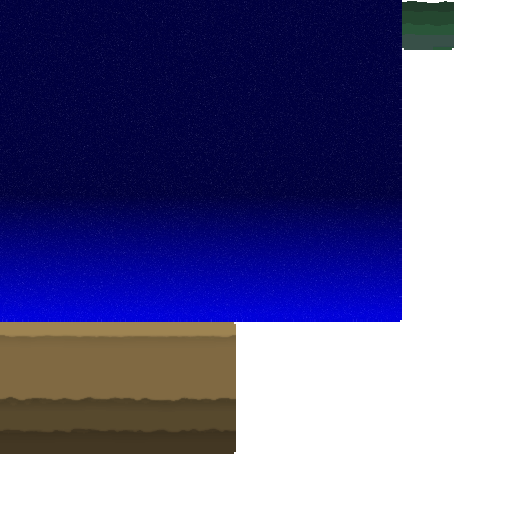
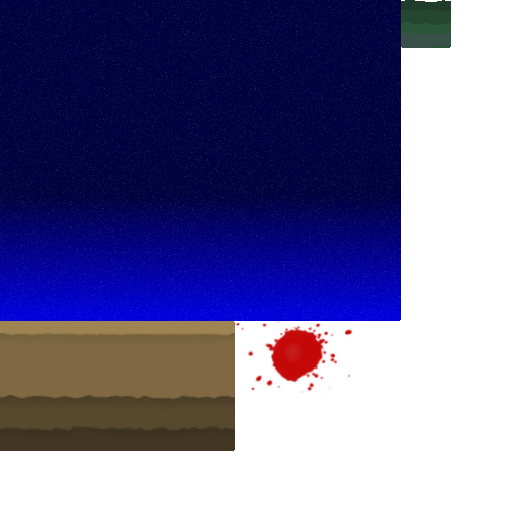
added blood to the points label inside the game

diff --git a/vampirerunner-core/src/main/java/com/gemserk/games/vampirerunner/scripts/render/LabelRenderScript.java b/vampirerunner-core/src/main/java/com/gemserk/games/vampirerunner/scripts/render/LabelRenderScript.java
@@ -5,12 +5,15 @@ import com.artemis.World;
 import com.artemis.utils.ImmutableBag;
 import com.badlogic.gdx.Gdx;
 import com.badlogic.gdx.graphics.g2d.BitmapFont;
+import com.badlogic.gdx.graphics.g2d.Sprite;
 import com.badlogic.gdx.graphics.g2d.SpriteBatch;
 import com.badlogic.gdx.math.Vector2;
 import com.gemserk.commons.artemis.components.SpatialComponent;
+import com.gemserk.commons.artemis.components.SpriteComponent;
 import com.gemserk.commons.artemis.scripts.ScriptJavaImpl;
 import com.gemserk.commons.gdx.camera.Libgdx2dCamera;
 import com.gemserk.commons.gdx.games.Spatial;
+import com.gemserk.commons.gdx.graphics.SpriteBatchUtils;
 import com.gemserk.games.vampirerunner.Groups;
 import com.gemserk.games.vampirerunner.components.ScoreLabelComponent;
 
@@ -38,33 +41,36 @@ public class LabelRenderScript extends ScriptJavaImpl {
 
 		font.setScale(2f);
 		font.setColor(1f, 1f, 1f, 1f);
-		
-		spriteBatch.begin();
 
+		spriteBatch.begin();
 		for (int i = 0; i < positionLabels.size(); i++) {
 
 			// if position label inside screen...
-
 			Entity positionLabel = positionLabels.get(i);
 			SpatialComponent spatialComponent = positionLabel.getComponent(SpatialComponent.class);
-			ScoreLabelComponent scoreLabelComponent = positionLabel.getComponent(ScoreLabelComponent.class);
 
 			Spatial spatial = spatialComponent.getSpatial();
 
 			labelPosition.set(spatial.getX(), spatial.getY());
 
 			camera.project(labelPosition);
-			
+
 			// do not render labels outside the screen.
 			if (labelPosition.x > Gdx.graphics.getWidth() + 100f || labelPosition.x < -100f)
 				continue;
 
-			font.draw(spriteBatch, scoreLabelComponent.getLabel(), labelPosition.x, labelPosition.y);
+			ScoreLabelComponent scoreLabelComponent = positionLabel.getComponent(ScoreLabelComponent.class);
+			SpriteComponent spriteComponent = positionLabel.getComponent(SpriteComponent.class);
 
+			Sprite sprite = spriteComponent.getSprite();
+
+			SpriteBatchUtils.drawCentered(spriteBatch, sprite, labelPosition.x, labelPosition.y, sprite.getWidth(), sprite.getHeight(), 0f, 0.5f, 0.6f);
+			SpriteBatchUtils.drawCentered(spriteBatch, font, scoreLabelComponent.getLabel(), labelPosition.x, labelPosition.y);
+
+			// font.draw(spriteBatch, scoreLabelComponent.getLabel(), labelPosition.x, labelPosition.y);
 		}
-
 		spriteBatch.end();
-		
+
 		font.setScale(1f);
 	}
 

diff --git a/vampirerunner-core/src/main/java/com/gemserk/games/vampirerunner/gamestates/NormalModeSceneTemplate.java b/vampirerunner-core/src/main/java/com/gemserk/games/vampirerunner/gamestates/NormalModeSceneTemplate.java
@@ -54,7 +54,6 @@ import com.gemserk.games.vampirerunner.templates.CameraTemplate;
 import com.gemserk.games.vampirerunner.templates.CloudSpawnerTemplate;
 import com.gemserk.games.vampirerunner.templates.CloudTemplate;
 import com.gemserk.games.vampirerunner.templates.FloorTileTemplate;
-import com.gemserk.games.vampirerunner.templates.PositionLabelTemplate;
 import com.gemserk.games.vampirerunner.templates.StaticSpriteEntityTemplate;
 import com.gemserk.games.vampirerunner.templates.TimedEventTemplate;
 import com.gemserk.games.vampirerunner.templates.VampireControllerTemplate;
@@ -157,8 +156,6 @@ public class NormalModeSceneTemplate {
 		EntityTemplate cloudTemplate = new CloudTemplate(resourceManager);
 		EntityTemplate cloudSpawnerTemplate = new CloudSpawnerTemplate(cloudTemplate, entityFactory);
 		
-		EntityTemplate positionLabelTemplate = new PositionLabelTemplate();
-
 		final EntityTemplate vladimirBloodExplosion = new VladimirBloodExplosionTemplate(resourceManager);
 		final EntityTemplate timedEventTemplate = new TimedEventTemplate(eventManager);
 		final EntityTemplate vladimirPartExplosion = new VampirePartExplosionTemplate(resourceManager);

diff --git a/vampirerunner-core/src/main/java/com/gemserk/games/vampirerunner/templates/PositionLabelTemplate.java b/vampirerunner-core/src/main/java/com/gemserk/games/vampirerunner/templates/PositionLabelTemplate.java
@@ -1,7 +1,9 @@
 package com.gemserk.games.vampirerunner.templates;
 
 import com.artemis.Entity;
+import com.badlogic.gdx.graphics.g2d.Sprite;
 import com.gemserk.commons.artemis.components.SpatialComponent;
+import com.gemserk.commons.artemis.components.SpriteComponent;
 import com.gemserk.commons.artemis.templates.EntityTemplateImpl;
 import com.gemserk.commons.gdx.games.Spatial;
 import com.gemserk.games.vampirerunner.Groups;
@@ -16,6 +18,7 @@ public class PositionLabelTemplate extends EntityTemplateImpl {
 	@Override
 	public void apply(Entity entity) {
 		Spatial spatial = parameters.get("spatial");
+		Sprite bloodSprite = parameters.get("sprite");
 
 		Score score = parameters.get("score");
 		Integer position = parameters.get("position");
@@ -23,6 +26,10 @@ public class PositionLabelTemplate extends EntityTemplateImpl {
 		entity.setGroup(Groups.PositionLabel);
 		entity.addComponent(new SpatialComponent(spatial));
 		entity.addComponent(new ScoreLabelComponent(position, score));
+		
+		entity.addComponent(new SpriteComponent(bloodSprite));
+		
+//		entity.addComponent(new SpriteComponent(bloodSprite, 0.5f, 0.2f, Color.WHITE));
 	}
 	
 }

diff --git a/vampirerunner-core/src/main/java/com/gemserk/games/vampirerunner/gamestates/PlayGameState.java b/vampirerunner-core/src/main/java/com/gemserk/games/vampirerunner/gamestates/PlayGameState.java
@@ -222,10 +222,14 @@ public class PlayGameState extends GameStateImpl {
 				
 				int position = 1;
 				for (Score score : scores) {
+					
+					Sprite bloodSprite = resourceManager.getResourceValue("BloodSprite");
+					
 					entityFactory.instantiate(positionLabelTemplate, new ParametersWrapper() //
 							.put("score", score) //
 							.put("position", position++) //
-							.put("spatial", new SpatialImpl(score.getPoints(), 1f, 0f, 0f, 0f)) //
+							.put("spatial", new SpatialImpl(score.getPoints(), 0.5f, bloodSprite.getWidth(), bloodSprite.getHeight(), 0f)) //
+							.put("sprite", bloodSprite) //
 							);
 				}
 			}

diff --git a/vampirerunner-core/src/main/java/com/gemserk/games/vampirerunner/resources/GameResources.java b/vampirerunner-core/src/main/java/com/gemserk/games/vampirerunner/resources/GameResources.java
@@ -35,6 +35,8 @@ public class GameResources extends LibgdxResourceBuilder {
 		spriteAtlas("Cloud01Sprite", "TextureAtlas", "cloud01");
 		spriteAtlas("Cloud02Sprite", "TextureAtlas", "cloud02");
 		spriteAtlas("Cloud03Sprite", "TextureAtlas", "cloud03");
+		
+		spriteAtlas("BloodSprite", "TextureAtlas", "blood-01");
 
 		texture("VampireSpriteSheet", internal("data/images/spritesheets/vampire-spritesheet.png"), false);
 		// animation speed should depend on the vampire speed.

diff --git a/vampirerunner-core/src/main/java/com/gemserk/games/vampirerunner/components/ScoreLabelComponent.java b/vampirerunner-core/src/main/java/com/gemserk/games/vampirerunner/components/ScoreLabelComponent.java
@@ -24,7 +24,7 @@ public class ScoreLabelComponent extends Component {
 	public ScoreLabelComponent(int position, Score score) {
 		this.position = position;
 		this.score = score;
-		this.label = "#" + position;
+		this.label = "" + position;
 	}
 
 }
